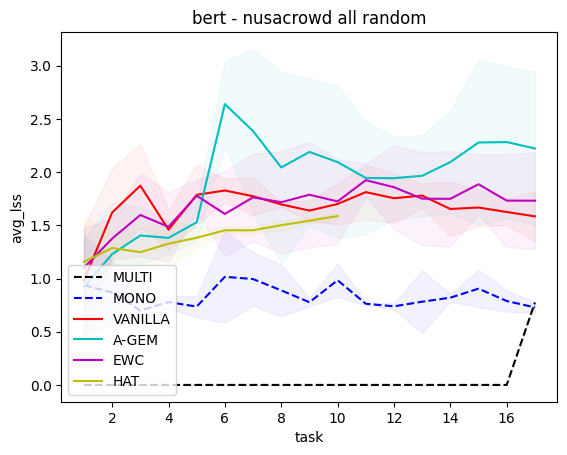
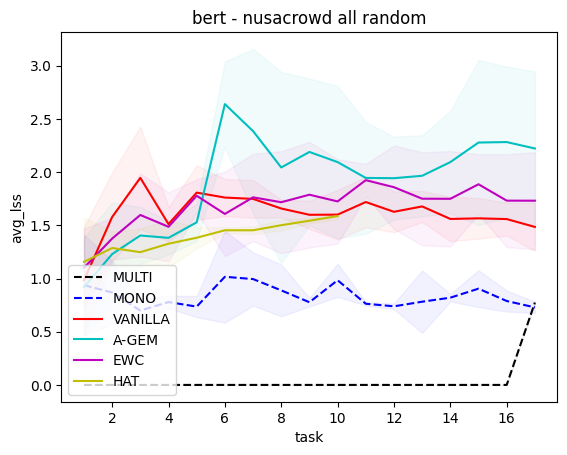
update final result

Changed region(s): [[0.2099, 0.3692, 0.9594, 0.5231], [0.1799, 0.4615, 0.2099, 0.5231], [0.1499, 0.5231, 0.1799, 0.5846]]

diff --git a/src/utils.py b/src/utils.py
@@ -928,28 +928,28 @@ if __name__ == "__main__":
     #         visualize('', row['exp_id'], f"res/til_classification/nusacrowd/{row['exp_id']} - {row['backbone']}_{row['baseline']}_.txt/{row['backbone']}_{row['baseline']}_.txt", 'nusacrowd_all_random', 'nusacrowd')
     
     # create viz for backbone and baseline combination
-    # list_create_viz = [
-    #     # multi_baseline
-    #     [['bert'], ['mtl', 'one', 'ncl', 'a-gem', 'ewc', 'hat'], 'multi_baseline'],
-    #     [['bert_frozen'], ['mtl', 'one', 'ncl', 'a-gem', 'ewc', 'hat'], 'multi_baseline'],
+    list_create_viz = [
+        # multi_baseline
+        [['bert'], ['mtl', 'one', 'ncl', 'a-gem', 'ewc', 'hat'], 'multi_baseline'],
+        [['bert_frozen'], ['mtl', 'one', 'ncl', 'a-gem', 'ewc', 'hat'], 'multi_baseline'],
         
-    #     # multi_backbone
-    #     [['bert', 'bert_frozen'], ['a-gem'], 'multi_backbone'],
-    #     [['bert', 'bert_frozen'], ['ewc'], 'multi_backbone'],
-    #     [['bert', 'bert_frozen'], ['hat'], 'multi_backbone'],
-    #     [['bert', 'bert_frozen'], ['mtl'], 'multi_backbone'],
-    #     [['bert', 'bert_frozen'], ['ncl'], 'multi_backbone'],
-    #     [['bert', 'bert_frozen'], ['one'], 'multi_backbone']
-    # ]
+        # multi_backbone
+        [['bert', 'bert_frozen'], ['a-gem'], 'multi_backbone'],
+        [['bert', 'bert_frozen'], ['ewc'], 'multi_backbone'],
+        [['bert', 'bert_frozen'], ['hat'], 'multi_backbone'],
+        [['bert', 'bert_frozen'], ['mtl'], 'multi_backbone'],
+        [['bert', 'bert_frozen'], ['ncl'], 'multi_backbone'],
+        [['bert', 'bert_frozen'], ['one'], 'multi_backbone']
+    ]
     
-    # for elmt in list_create_viz:
-    #     run_create_viz(elmt[0], elmt[1], 'nusacrowd all random', elmt[2])
+    for elmt in list_create_viz:
+        run_create_viz(elmt[0], elmt[1], 'nusacrowd all random', elmt[2])
     
     # recalculate an experiment
     # calculate_metrics(81, 'bert_adapter', 'a-gem')
     
     # recalculate all experiments        
-    # calculate_metrics(list_exp.iterrows())
+    calculate_metrics(list_exp.iterrows())
     
     # get worst forgetting
     # with open('res/til_classification/result_transfer_cl.csv', 'a', newline='') as fp:
